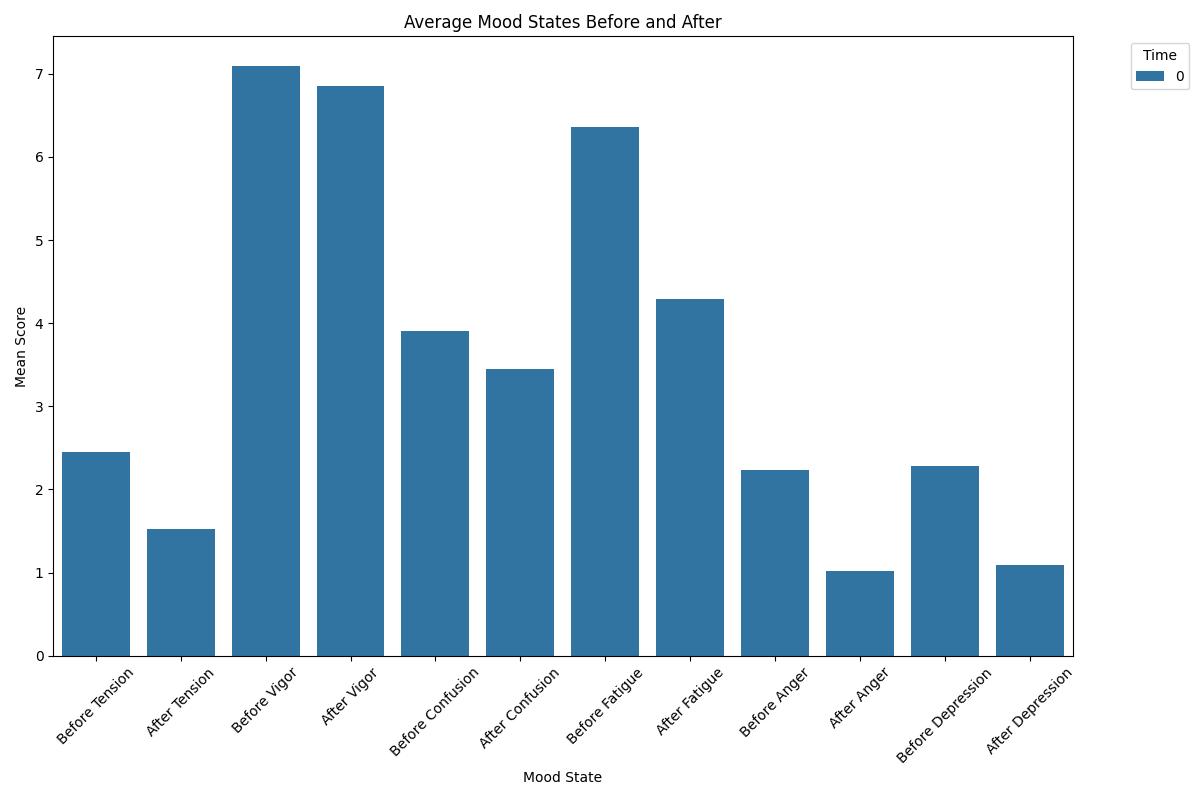
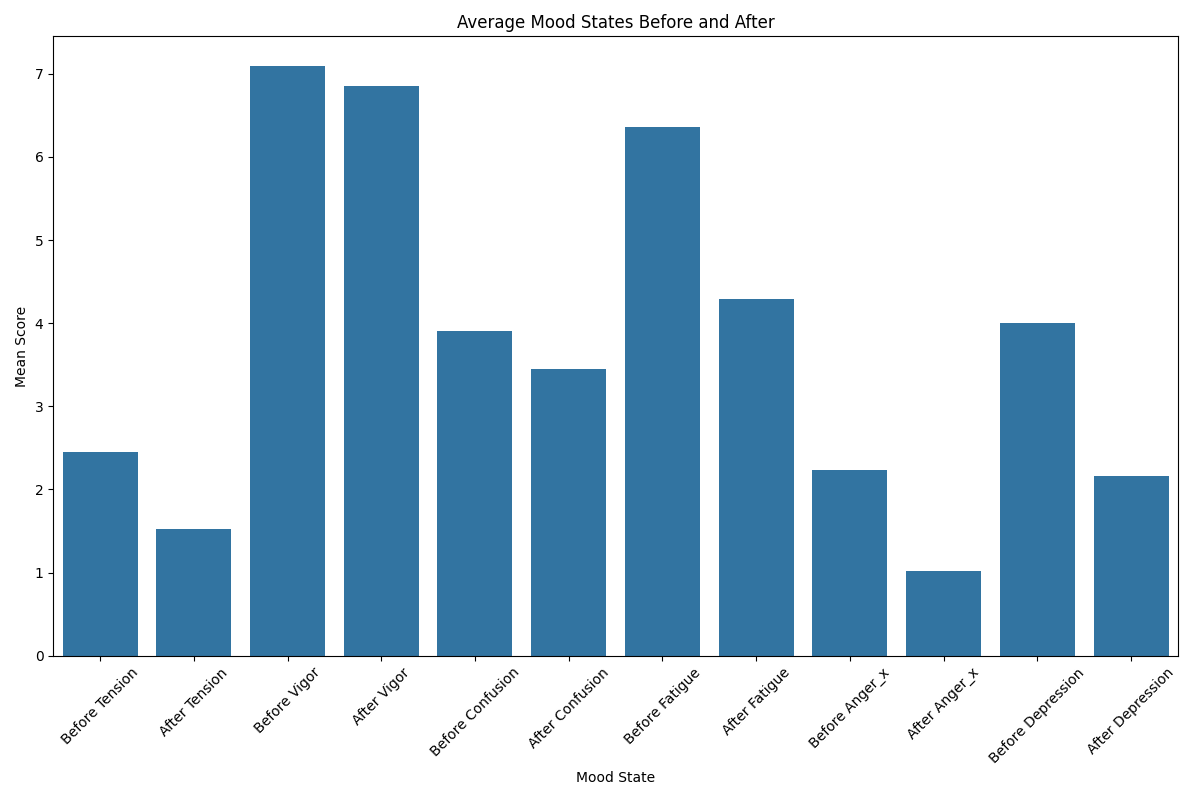
.

diff --git a/POMS/average_all.py b/POMS/average_all.py
@@ -18,12 +18,11 @@ mean_scores = participant_scores.mean().reset_index()
 melted_scores = mean_scores.melt(id_vars=['index'], var_name='Time', value_name='Mean Score')
 
 plt.figure(figsize=(12, 8))
-sns.barplot(x='index', y='Mean Score', hue='Time', data=melted_scores)
+sns.barplot(x='index', y='Mean Score', data=melted_scores)
 plt.title('Average Mood States Before and After')
 plt.xlabel('Mood State')
 plt.ylabel('Mean Score')
 plt.xticks(rotation=45)
-plt.legend(title='Time', bbox_to_anchor=(1.05, 1), loc='upper left')
 plt.tight_layout()
 
 output_image = os.path.join(image_path, 'all_conditions_plot.png')
